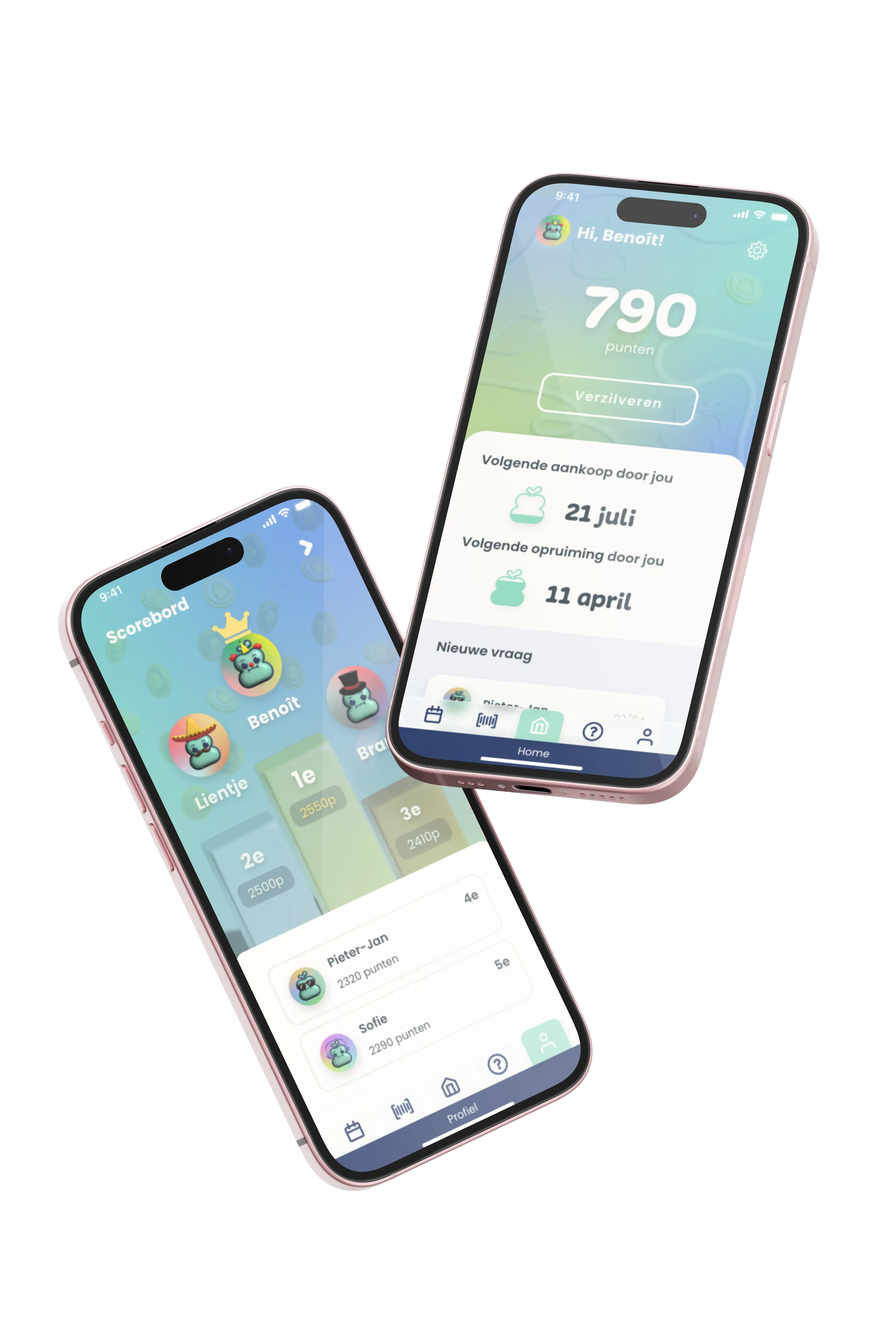
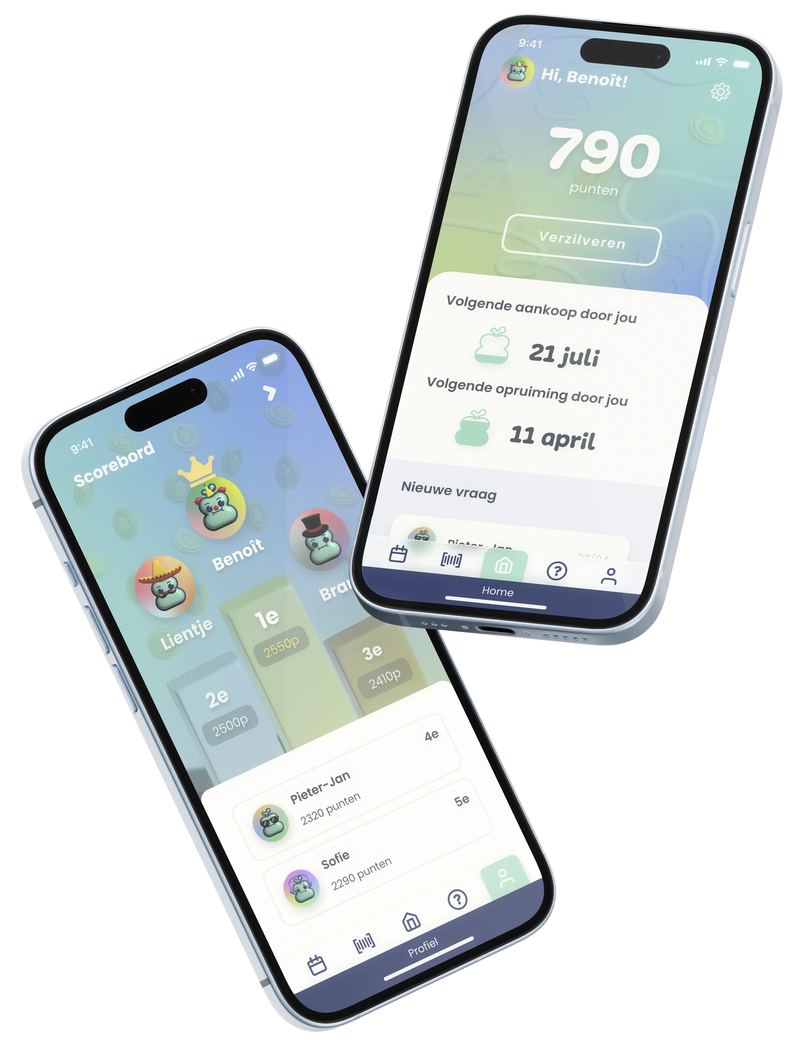
🍱 Updated homepage assets

Changed region(s): [[0.0, 0.0, 0.992, 0.9928]]

diff --git a/input/assets/styles/dist/main.css b/input/assets/styles/dist/main.css
@@ -1,1 +1,1 @@
-:root{--dark:#2b3640;--light:#c9eef2;--primary:#3fdaee;--primary85:rgba(63,218,238,.85);--white:#fffdfa}@font-face{font-family:Poppins;font-style:normal;font-weight:600;src:url(../../fonts/Poppins/Poppins-SemiBold.woff2) format("woff2"),url(../../fonts/Poppins/Poppins-SemiBold.woff) format("woff")}@font-face{font-family:Poppins;font-style:normal;font-weight:400;src:url(../../fonts/Poppins/Poppins-Regular.woff2) format("woff2"),url(../../fonts/Poppins/Poppins-Regular.woff) format("woff")}@font-face{font-display:swap;font-family:Roboto Mono;font-style:normal;font-weight:400;src:url(../../fonts/RobotoMono/RobotoMono-Regular.woff2) format("woff2"),url(../../fonts/RobotoMono/RobotoMono-Regular.woff) format("woff")}@font-face{font-display:swap;font-family:Kugile;font-style:normal;font-weight:400;src:url(../../fonts/Kugile/Kugile.woff2) format("woff2"),url(../../fonts/Kugile/Kugile.woff) format("woff")}body{background-color:var(--white);color:var(--dark);font-family:Poppins,sans-serif;position:relative}body ::selection{background-color:var(--primary85);color:var(--dark)}.dark{background-color:var(--dark)}.dark,.dark .link-hover__label,.dark a{color:var(--white)}.dark-background{background-color:var(--dark)}h1{font-size:4.25rem;font-weight:400;line-height:1.2}h1.dev__title{font-family:Roboto Mono,monospace;width:50%}@media (max-width:80rem){h1.dev__title{width:100%}}@media (max-height:56rem){h1.dev__title{font-size:2rem}}h1.designer__title{font-family:Kugile,sans-serif;font-size:5.75rem;margin-left:auto;position:relative;top:2rem;width:50%}@media (max-width:80rem){h1.designer__title{width:100%}}@media (max-width:62rem){h1.designer__title{font-size:3.4rem}}@media (max-height:56rem){h1.designer__title{font-size:2.4rem}}@media (max-width:62rem){h1{font-size:2.75rem}}h2{font-size:1.4rem;font-weight:600}p{font-size:1rem}ul{list-style-type:none;padding-left:0}a{color:var(--dark);text-decoration:none}a:hover{color:var(--primary);transition:.2s ease-in-out}.link-hover{align-items:center;display:flex;gap:1.875rem;overflow:hidden;position:relative}.link-hover .link-hover__label{position:relative;right:100%;transition:.5s ease-in-out;width:100%}@media (max-width:48rem){.link-hover .link-hover__label{display:none}}.link-hover .link-hover__svg{max-width:1rem;transition:.5s ease-in-out;width:100%;z-index:1}@media (max-width:48rem){.link-hover .link-hover__svg{max-width:3.75rem}}.link-hover .down{transform:rotate(90deg)}.link-hover:hover{color:var(--dark)}.link-hover:hover .link-hover__label{right:0;transition:.5s ease-in-out}.live-link,.recording-link,.repo-link{align-items:center;display:flex;gap:.9375rem;position:relative}.live-link .live-link__svg,.live-link .recording-link__svg,.live-link .repo-link__svg,.recording-link .live-link__svg,.recording-link .recording-link__svg,.recording-link .repo-link__svg,.repo-link .live-link__svg,.repo-link .recording-link__svg,.repo-link .repo-link__svg{max-width:1rem;position:relative;width:100%}.live-link .recording-link__svg,.recording-link .recording-link__svg,.repo-link .recording-link__svg{max-width:1.4rem}.live-link:hover .live-link__svg,.live-link:hover .recording-link__svg,.live-link:hover .repo-link__svg,.recording-link:hover .live-link__svg,.recording-link:hover .recording-link__svg,.recording-link:hover .repo-link__svg,.repo-link:hover .live-link__svg,.repo-link:hover .recording-link__svg,.repo-link:hover .repo-link__svg{bottom:2px;left:2px}.live-link .live-link__svg,.recording-link .live-link__svg,.repo-link .live-link__svg{transform:rotate(-45deg)}header{padding-bottom:3.75rem}@media (max-width:48rem){header{padding-bottom:1.875rem}}footer{padding-top:3.75rem}@media (max-width:48rem){footer{padding-top:1.875rem}}nav{align-items:center;display:flex;justify-content:space-between;padding:2.8125rem 3.75rem}@media (max-width:48rem){nav{padding:1.75rem 1.875rem}}.main__inner{margin:0 auto;max-width:75rem;padding:0 3.75rem}@media (max-width:48rem){.main__inner{padding:0 1.875rem}}.loader__container{align-items:center;background-color:var(--white);display:flex;height:100%;justify-content:center;left:0;position:fixed;top:0;width:100%;z-index:9999}.loader__container .loader{height:100%;padding:0 1.875rem}.loader__container .loader .loader__animation{max-width:16rem;width:100%}@media (max-width:48rem){.loader__container .loader .loader__animation{max-width:8rem}}.loader__container .loader .loader__message{font-size:1.4rem;left:50%;padding:0 3.75rem;position:absolute;text-align:center;top:80%;transform:translate(-50%,-50%);width:100%}@media (max-width:48rem){.loader__container .loader .loader__message{font-size:1rem;top:70%}}.dark .loader__container{background-color:var(--dark)}.hero{display:flex;flex-direction:column;height:100vh;justify-content:space-between;left:0;overflow:hidden;position:absolute;top:0;width:100%}.hero--dev{position:relative}.hero--dev,.hero--dev a{color:var(--white)}.hero--dev a:hover{color:var(--primary)}.hero--dev .button--dev:hover{color:var(--white)}.hero--dev:after{content:"&";font-size:9rem;line-height:.8;position:absolute;right:50%;top:50%;transform:translate(50%,-50%)}@media (max-height:48rem){.hero--dev:after{font-size:6rem}}.hero--dev:before{background-color:var(--dark);content:"";height:100%;position:absolute;width:100%;z-index:-2}.hero--designer{background-color:var(--white);clip-path:polygon(56% 0,100% 0,100% 100%,43% 100%)}.hero--designer .hero__content{text-align:right}@media (max-width:80rem){.hero--designer{clip-path:polygon(100% 30%,100% 100%,0 100%,0 70%)}}@media (max-width:48rem){.hero--designer{clip-path:polygon(100% 42%,100% 100%,0 100%,0 58%)}}.hero--designer:after{background-image:url(../../images/&-Amandine-font.svg);background-repeat:no-repeat;background-size:contain;content:"";height:6.75rem;position:absolute;right:49.6%;top:50%;transform:translate(50%,-50%);width:6.75rem}@media (max-width:80rem){.hero--designer:after{top:49%}}@media (max-height:48rem){.hero--designer:after{height:4.5rem;width:4.5rem}}.hero__content{margin:0 auto;padding:0 7.5rem;transition:.3s ease-in-out}@media (max-width:80rem){.hero__content{padding:0 3.75rem}}@media (max-width:48rem){.hero__content{padding:0 1.875rem}}.hero__button{border:2px solid var(--primary);display:inline-block;max-width:16rem;padding:1.25rem 2.5rem;text-align:center;width:100%}@media (max-width:48rem){.hero__button{max-width:14rem;padding:1rem 2rem}}.hero__button--dev{background-color:var(--dark);margin-top:3.75rem;transition:.4s ease-in-out}.hero__button--dev:hover{box-shadow:0 0 25px 5px rgba(0,225,255,.14);transition:.4s ease-in-out}@media (max-width:48rem){.hero__button--dev{margin-top:1.875rem}}.hero__button--designer{border-color:var(--dark);border-radius:50px;margin-bottom:1.75rem;transition:.4s ease-in-out}.hero__button--designer:hover{border-color:var(--primary);color:var(--dark);transition:.4s ease-in-out}@media (max-width:48rem){.hero__button--designer{margin-bottom:0}}.ball-animation{height:100vh;left:50%;position:absolute;top:0;width:50%;z-index:-2}@media (max-width:80rem){.ball-animation{left:25%;top:35%;width:60%}}@media (max-width:48rem){.ball-animation{left:0}}.ball-animation .ball{position:absolute}.ball-animation .ball-1{animation:float 6s ease-in-out infinite;left:22%;min-width:20rem;opacity:.4;top:10%;width:75%}.ball-animation .ball-2{animation:floatReverse 4s ease-in-out infinite;left:5%;min-width:15rem;opacity:1;top:40%;width:55%}@keyframes float{0%{transform:translateY(-1rem)}50%{transform:translateY(8rem)}to{transform:translateY(-1rem)}}@keyframes floatReverse{0%{transform:translateY(0)}50%{transform:translateY(-6rem)}to{transform:translateY(0)}}.code-animation{left:0;opacity:.1;position:absolute;top:0;width:42%;z-index:-2}@media (max-width:80rem){.code-animation{left:60%;top:-35%}}.code-animation .code{animation:float2 6s ease-in-out infinite;left:-6rem;position:absolute;top:44vh}@keyframes float2{0%{transform:translateY(0)}50%{transform:translateY(2rem)}to{transform:translateY(0)}}.hero__image{position:absolute;z-index:-1}@media (max-width:80rem){.hero__image{display:none}}@media (max-height:56rem){.hero__image{display:none}}.wd-image{bottom:-15%;max-width:95%;right:-28%;width:100%}.gd-image{left:0;max-width:45%;top:-10%;width:100%}.page-header{display:flex;justify-content:space-between;margin-bottom:7.5rem}@media (max-width:48rem){.page-header{flex-direction:column;gap:1.875rem;margin-bottom:3.75rem}}.page-header .page-header__title{left:3.75rem;max-width:45%;position:relative}@media (max-width:62rem){.page-header .page-header__title{left:1.875rem}}@media (max-width:48rem){.page-header .page-header__title{left:0;max-width:18.75rem}}.page-header .page-header__title:before{background-color:var(--primary);content:"";display:block;height:100%;left:-3.75rem;position:absolute;top:0;width:2px}@media (max-width:62rem){.page-header .page-header__title:before{left:-1.875rem}}@media (max-width:48rem){.page-header .page-header__title:before{display:none}}.page-header .page-header__right{align-items:flex-end;display:flex;flex-direction:column;justify-content:space-between}@media (max-width:48rem){.page-header .page-header__right{flex-direction:row-reverse}}.page-header .page-header__right .page-header__icon{max-height:3.75rem}.gallery{display:flex;flex-direction:column;gap:2.8125rem}.gallery .project{opacity:0;transform:translateY(2rem);transition:opacity 1s,transform 1s}.gallery .project.visible{opacity:1;transform:translateY(0)}.gallery img,.gallery video{border-radius:1.875rem;height:100%;object-fit:cover;width:100%}.gallery video{pointer-events:none}.gallery .project__media{position:relative;width:100%}.gallery .unmute-button{background:none;border:none;cursor:pointer;left:1.875rem;position:absolute;top:1.875rem;z-index:1}.gallery .unmute-button svg{height:1.875rem;width:1.875rem;fill:var(--primary)}@media (max-width:62rem){.gallery{gap:1.875rem}}.gallery .project--1,.gallery .project--2,.gallery .project--3,.gallery .project--4,.gallery .project--5,.gallery .project--6{display:flex;flex-wrap:wrap;gap:2.8125rem}.gallery .project--1 .project__media--1,.gallery .project--2 .project__media--1,.gallery .project--3 .project__media--1,.gallery .project--4 .project__media--1,.gallery .project--5 .project__media--1,.gallery .project--6 .project__media--1{width:100%}.gallery .project--1 .project__media--2,.gallery .project--1 .project__media--3,.gallery .project--1 .project__media--4,.gallery .project--2 .project__media--2,.gallery .project--2 .project__media--3,.gallery .project--2 .project__media--4,.gallery .project--3 .project__media--2,.gallery .project--3 .project__media--3,.gallery .project--3 .project__media--4,.gallery .project--4 .project__media--2,.gallery .project--4 .project__media--3,.gallery .project--4 .project__media--4,.gallery .project--5 .project__media--2,.gallery .project--5 .project__media--3,.gallery .project--5 .project__media--4,.gallery .project--6 .project__media--2,.gallery .project--6 .project__media--3,.gallery .project--6 .project__media--4{flex:1}.gallery .project--1 .project__right,.gallery .project--2 .project__right,.gallery .project--3 .project__right,.gallery .project--4 .project__right,.gallery .project--5 .project__right,.gallery .project--6 .project__right{display:flex;flex:1;flex-direction:column;gap:2.8125rem}@media (max-width:62rem){.gallery .project--1,.gallery .project--1 .project__right,.gallery .project--2,.gallery .project--2 .project__right,.gallery .project--3,.gallery .project--3 .project__right,.gallery .project--4,.gallery .project--4 .project__right,.gallery .project--5,.gallery .project--5 .project__right,.gallery .project--6,.gallery .project--6 .project__right{gap:1.875rem}}@media (max-width:48rem){.gallery .project--1,.gallery .project--2,.gallery .project--3,.gallery .project--4,.gallery .project--5,.gallery .project--6{flex-direction:column}}.gallery .project--1 .project__media--1{width:65%}.gallery .project--1 .project__media--3{flex:none;width:47%}.gallery .project--3 .project__media--1{width:47%}.gallery .project--4 .project__media--1{width:30%}.gallery .project--5 .project__media--1{width:65%}.gallery .project--6 .project__media--1{width:47%}@media (max-width:48rem){.gallery .project .project__media{width:100%}}.summary{border-top:2px solid var(--primary);margin-top:7.5rem;padding-bottom:3.75rem;padding-top:7.5rem}.summary .summary__title{font-weight:600;padding-bottom:1.875rem}.summary .summary__content{display:flex;flex-wrap:wrap;gap:.9375rem}.web-projects{display:flex;flex-direction:column;gap:3.75rem;transition:.2s ease-in-out}.web-projects .faded{opacity:.5;transition:.4s ease-in-out}.web-projects .web-project{display:flex;flex-wrap:wrap;gap:1.875rem}.web-projects .web-project .web-project__thumbnail{width:30%}@media (max-width:62rem){.web-projects .web-project .web-project__thumbnail{width:40%}}@media (max-width:48rem){.web-projects .web-project .web-project__thumbnail{width:100%}}.web-projects .web-project .web-project__content{display:flex;flex:1;flex-direction:column;gap:.9375rem}.web-projects .web-project .web-project__header,.web-projects .web-project .web-project__links{align-items:center;display:flex;flex-wrap:wrap;gap:.9375rem;justify-content:space-between}.web-projects .web-project .web_project__tags{color:var(--primary);display:flex;flex-wrap:wrap;gap:1.25rem}.about .about__header{align-items:center;display:flex;justify-content:space-between;padding-bottom:1.875rem}.about .about__tagline{display:flex;flex-direction:column;width:100%}.about .about__tagline p{align-items:center;display:flex;font-size:clamp(1rem,5vw,4.2rem);font-weight:400;gap:.9375rem;line-height:1.4}.about .about__icon{max-height:3.75rem}@media (max-width:80rem){.about .about__icon{max-height:2.7rem}}@media (max-width:48rem){.about .about__icon{max-height:1.2rem}}.about .about__icon::selection{background-color:transparent}.socials{align-items:flex-end;display:flex;flex-direction:column;gap:.9375rem;margin-top:3.75rem}.skills__wrapper{display:flex;flex-wrap:wrap;gap:7.5rem}@media (max-width:62rem){.skills__wrapper{gap:3.75rem}}@media (max-width:48rem){.skills__wrapper{gap:1.875rem}}.skills{margin-top:3.75rem}.skills .skills__title{font-weight:600;padding-bottom:1.875rem}.skills .skills__content{display:flex;flex-direction:column;flex-wrap:wrap;gap:.9375rem}
+:root{--dark:#2b3640;--light:#c9eef2;--primary:#3fdaee;--primary85:rgba(63,218,238,.85);--white:#fffdfa}@font-face{font-family:Poppins;font-style:normal;font-weight:600;src:url(../../fonts/Poppins/Poppins-SemiBold.woff2) format("woff2"),url(../../fonts/Poppins/Poppins-SemiBold.woff) format("woff")}@font-face{font-family:Poppins;font-style:normal;font-weight:400;src:url(../../fonts/Poppins/Poppins-Regular.woff2) format("woff2"),url(../../fonts/Poppins/Poppins-Regular.woff) format("woff")}@font-face{font-display:swap;font-family:Roboto Mono;font-style:normal;font-weight:400;src:url(../../fonts/RobotoMono/RobotoMono-Regular.woff2) format("woff2"),url(../../fonts/RobotoMono/RobotoMono-Regular.woff) format("woff")}@font-face{font-display:swap;font-family:Kugile;font-style:normal;font-weight:400;src:url(../../fonts/Kugile/Kugile.woff2) format("woff2"),url(../../fonts/Kugile/Kugile.woff) format("woff")}body{background-color:var(--white);color:var(--dark);font-family:Poppins,sans-serif;position:relative}body ::selection{background-color:var(--primary85);color:var(--dark)}.dark{background-color:var(--dark)}.dark,.dark .link-hover__label,.dark a{color:var(--white)}.dark-background{background-color:var(--dark)}h1{font-size:4.25rem;font-weight:400;line-height:1.2}h1.dev__title{font-family:Roboto Mono,monospace;width:50%}@media (max-width:80rem){h1.dev__title{width:100%}}@media (max-height:56rem){h1.dev__title{font-size:2rem}}h1.designer__title{font-family:Kugile,sans-serif;font-size:5.75rem;margin-left:auto;position:relative;top:2rem;width:50%}@media (max-width:80rem){h1.designer__title{width:100%}}@media (max-width:62rem){h1.designer__title{font-size:3.4rem}}@media (max-height:56rem){h1.designer__title{font-size:2.4rem}}@media (max-width:62rem){h1{font-size:2.75rem}}h2{font-size:1.4rem;font-weight:600}p{font-size:1rem}ul{list-style-type:none;padding-left:0}a{color:var(--dark);text-decoration:none}a:hover{color:var(--primary);transition:.2s ease-in-out}.link-hover{align-items:center;display:flex;gap:1.875rem;overflow:hidden;position:relative}.link-hover .link-hover__label{position:relative;right:100%;transition:.5s ease-in-out;width:100%}@media (max-width:48rem){.link-hover .link-hover__label{display:none}}.link-hover .link-hover__svg{max-width:1rem;transition:.5s ease-in-out;width:100%;z-index:1}@media (max-width:48rem){.link-hover .link-hover__svg{max-width:3.75rem}}.link-hover .down{transform:rotate(90deg)}.link-hover:hover{color:var(--dark)}.link-hover:hover .link-hover__label{right:0;transition:.5s ease-in-out}.live-link,.recording-link,.repo-link{align-items:center;display:flex;gap:.9375rem;position:relative}.live-link .live-link__svg,.live-link .recording-link__svg,.live-link .repo-link__svg,.recording-link .live-link__svg,.recording-link .recording-link__svg,.recording-link .repo-link__svg,.repo-link .live-link__svg,.repo-link .recording-link__svg,.repo-link .repo-link__svg{max-width:1rem;position:relative;width:100%}.live-link .recording-link__svg,.recording-link .recording-link__svg,.repo-link .recording-link__svg{max-width:1.4rem}.live-link:hover .live-link__svg,.live-link:hover .recording-link__svg,.live-link:hover .repo-link__svg,.recording-link:hover .live-link__svg,.recording-link:hover .recording-link__svg,.recording-link:hover .repo-link__svg,.repo-link:hover .live-link__svg,.repo-link:hover .recording-link__svg,.repo-link:hover .repo-link__svg{bottom:2px;left:2px}.live-link .live-link__svg,.recording-link .live-link__svg,.repo-link .live-link__svg{transform:rotate(-45deg)}header{padding-bottom:3.75rem}@media (max-width:48rem){header{padding-bottom:1.875rem}}footer{padding-top:3.75rem}@media (max-width:48rem){footer{padding-top:1.875rem}}nav{align-items:center;display:flex;justify-content:space-between;padding:2.8125rem 3.75rem}@media (max-width:48rem){nav{padding:1.75rem 1.875rem}}.main__inner{margin:0 auto;max-width:75rem;padding:0 3.75rem}@media (max-width:48rem){.main__inner{padding:0 1.875rem}}.loader__container{align-items:center;background-color:var(--white);display:flex;height:100%;justify-content:center;left:0;position:fixed;top:0;width:100%;z-index:9999}.loader__container .loader{height:100%;padding:0 1.875rem}.loader__container .loader .loader__animation{max-width:16rem;width:100%}@media (max-width:48rem){.loader__container .loader .loader__animation{max-width:8rem}}.loader__container .loader .loader__message{font-size:1.4rem;left:50%;padding:0 3.75rem;position:absolute;text-align:center;top:80%;transform:translate(-50%,-50%);width:100%}@media (max-width:48rem){.loader__container .loader .loader__message{font-size:1rem;top:70%}}.dark .loader__container{background-color:var(--dark)}.hero{display:flex;flex-direction:column;height:100vh;justify-content:space-between;left:0;overflow:hidden;position:absolute;top:0;width:100%}.hero--dev{position:relative}.hero--dev,.hero--dev a{color:var(--white)}.hero--dev a:hover{color:var(--primary)}.hero--dev .button--dev:hover{color:var(--white)}.hero--dev:after{content:"&";font-size:9rem;line-height:.8;position:absolute;right:50%;top:50%;transform:translate(50%,-50%)}@media (max-height:48rem){.hero--dev:after{font-size:6rem}}.hero--dev:before{background-color:var(--dark);content:"";height:100%;position:absolute;width:100%;z-index:-2}.hero--designer{background-color:var(--white);clip-path:polygon(56% 0,100% 0,100% 100%,43% 100%)}.hero--designer .hero__content{text-align:right}@media (max-width:80rem){.hero--designer{clip-path:polygon(100% 30%,100% 100%,0 100%,0 70%)}}@media (max-width:48rem){.hero--designer{clip-path:polygon(100% 42%,100% 100%,0 100%,0 58%)}}.hero--designer:after{background-image:url(../../images/&-Amandine-font.svg);background-repeat:no-repeat;background-size:contain;content:"";height:6.75rem;position:absolute;right:49.6%;top:50%;transform:translate(50%,-50%);width:6.75rem}@media (max-width:80rem){.hero--designer:after{top:49%}}@media (max-height:48rem){.hero--designer:after{height:4.5rem;width:4.5rem}}.hero__content{margin:0 auto;padding:0 7.5rem;transition:.3s ease-in-out}@media (max-width:80rem){.hero__content{padding:0 3.75rem}}@media (max-width:48rem){.hero__content{padding:0 1.875rem}}.hero__button{border:2px solid var(--primary);display:inline-block;max-width:16rem;padding:1.25rem 2.5rem;text-align:center;width:100%}@media (max-width:48rem){.hero__button{max-width:14rem;padding:1rem 2rem}}.hero__button--dev{background-color:var(--dark);margin-top:3.75rem;transition:.4s ease-in-out}.hero__button--dev:hover{box-shadow:0 0 25px 5px rgba(0,225,255,.14);transition:.4s ease-in-out}@media (max-width:48rem){.hero__button--dev{margin-top:1.875rem}}.hero__button--designer{border-color:var(--dark);border-radius:50px;margin-bottom:1.75rem;transition:.4s ease-in-out}.hero__button--designer:hover{border-color:var(--primary);color:var(--dark);transition:.4s ease-in-out}@media (max-width:48rem){.hero__button--designer{margin-bottom:0}}.ball-animation{height:100vh;left:50%;position:absolute;top:0;width:50%;z-index:-2}@media (max-width:80rem){.ball-animation{left:25%;top:35%;width:60%}}@media (max-width:48rem){.ball-animation{left:0}}.ball-animation .ball{position:absolute}.ball-animation .ball-1{animation:float 6s ease-in-out infinite;left:22%;min-width:20rem;opacity:.4;top:10%;width:75%}.ball-animation .ball-2{animation:floatReverse 4s ease-in-out infinite;left:5%;min-width:15rem;opacity:1;top:40%;width:55%}@keyframes float{0%{transform:translateY(-1rem)}50%{transform:translateY(8rem)}to{transform:translateY(-1rem)}}@keyframes floatReverse{0%{transform:translateY(0)}50%{transform:translateY(-6rem)}to{transform:translateY(0)}}.code-animation{left:0;opacity:.1;position:absolute;top:0;width:42%;z-index:-2}@media (max-width:80rem){.code-animation{left:60%;top:-35%}}.code-animation .code{animation:float2 6s ease-in-out infinite;left:-6rem;position:absolute;top:44vh}@keyframes float2{0%{transform:translateY(0)}50%{transform:translateY(2rem)}to{transform:translateY(0)}}.hero__image{position:absolute;z-index:-1}@media (max-width:80rem){.hero__image{display:none}}@media (max-height:56rem){.hero__image{display:none}}.wd-image{bottom:2vh;max-width:55vw;right:-6vw;width:100%}.gd-image{left:5vw;max-width:38vw;top:8vh;width:100%}.page-header{display:flex;justify-content:space-between;margin-bottom:7.5rem}@media (max-width:48rem){.page-header{flex-direction:column;gap:1.875rem;margin-bottom:3.75rem}}.page-header .page-header__title{left:3.75rem;max-width:45%;position:relative}@media (max-width:62rem){.page-header .page-header__title{left:1.875rem}}@media (max-width:48rem){.page-header .page-header__title{left:0;max-width:18.75rem}}.page-header .page-header__title:before{background-color:var(--primary);content:"";display:block;height:100%;left:-3.75rem;position:absolute;top:0;width:2px}@media (max-width:62rem){.page-header .page-header__title:before{left:-1.875rem}}@media (max-width:48rem){.page-header .page-header__title:before{display:none}}.page-header .page-header__right{align-items:flex-end;display:flex;flex-direction:column;justify-content:space-between}@media (max-width:48rem){.page-header .page-header__right{flex-direction:row-reverse}}.page-header .page-header__right .page-header__icon{max-height:3.75rem}.gallery{display:flex;flex-direction:column;gap:2.8125rem}.gallery .project{opacity:0;transform:translateY(2rem);transition:opacity 1s,transform 1s}.gallery .project.visible{opacity:1;transform:translateY(0)}.gallery img,.gallery video{border-radius:1.875rem;height:100%;object-fit:cover;width:100%}.gallery video{pointer-events:none}.gallery .project__media{position:relative;width:100%}.gallery .unmute-button{background:none;border:none;cursor:pointer;left:1.875rem;position:absolute;top:1.875rem;z-index:1}.gallery .unmute-button svg{height:1.875rem;width:1.875rem;fill:var(--primary)}@media (max-width:62rem){.gallery{gap:1.875rem}}.gallery .project--1,.gallery .project--2,.gallery .project--3,.gallery .project--4,.gallery .project--5,.gallery .project--6{display:flex;flex-wrap:wrap;gap:2.8125rem}.gallery .project--1 .project__media--1,.gallery .project--2 .project__media--1,.gallery .project--3 .project__media--1,.gallery .project--4 .project__media--1,.gallery .project--5 .project__media--1,.gallery .project--6 .project__media--1{width:100%}.gallery .project--1 .project__media--2,.gallery .project--1 .project__media--3,.gallery .project--1 .project__media--4,.gallery .project--2 .project__media--2,.gallery .project--2 .project__media--3,.gallery .project--2 .project__media--4,.gallery .project--3 .project__media--2,.gallery .project--3 .project__media--3,.gallery .project--3 .project__media--4,.gallery .project--4 .project__media--2,.gallery .project--4 .project__media--3,.gallery .project--4 .project__media--4,.gallery .project--5 .project__media--2,.gallery .project--5 .project__media--3,.gallery .project--5 .project__media--4,.gallery .project--6 .project__media--2,.gallery .project--6 .project__media--3,.gallery .project--6 .project__media--4{flex:1}.gallery .project--1 .project__right,.gallery .project--2 .project__right,.gallery .project--3 .project__right,.gallery .project--4 .project__right,.gallery .project--5 .project__right,.gallery .project--6 .project__right{display:flex;flex:1;flex-direction:column;gap:2.8125rem}@media (max-width:62rem){.gallery .project--1,.gallery .project--1 .project__right,.gallery .project--2,.gallery .project--2 .project__right,.gallery .project--3,.gallery .project--3 .project__right,.gallery .project--4,.gallery .project--4 .project__right,.gallery .project--5,.gallery .project--5 .project__right,.gallery .project--6,.gallery .project--6 .project__right{gap:1.875rem}}@media (max-width:48rem){.gallery .project--1,.gallery .project--2,.gallery .project--3,.gallery .project--4,.gallery .project--5,.gallery .project--6{flex-direction:column}}.gallery .project--1 .project__media--1{width:65%}.gallery .project--1 .project__media--3{flex:none;width:47%}.gallery .project--3 .project__media--1{width:47%}.gallery .project--4 .project__media--1{width:30%}.gallery .project--5 .project__media--1{width:65%}.gallery .project--6 .project__media--1{width:47%}@media (max-width:48rem){.gallery .project .project__media{width:100%}}.summary{border-top:2px solid var(--primary);margin-top:7.5rem;padding-bottom:3.75rem;padding-top:7.5rem}.summary .summary__title{font-weight:600;padding-bottom:1.875rem}.summary .summary__content{display:flex;flex-wrap:wrap;gap:.9375rem}.web-projects{display:flex;flex-direction:column;gap:3.75rem;transition:.2s ease-in-out}.web-projects .faded{opacity:.5;transition:.4s ease-in-out}.web-projects .web-project{display:flex;flex-wrap:wrap;gap:1.875rem}.web-projects .web-project .web-project__thumbnail{width:30%}@media (max-width:62rem){.web-projects .web-project .web-project__thumbnail{width:40%}}@media (max-width:48rem){.web-projects .web-project .web-project__thumbnail{width:100%}}.web-projects .web-project .web-project__content{display:flex;flex:1;flex-direction:column;gap:.9375rem}.web-projects .web-project .web-project__header,.web-projects .web-project .web-project__links{align-items:center;display:flex;flex-wrap:wrap;gap:.9375rem;justify-content:space-between}.web-projects .web-project .web_project__tags{color:var(--primary);display:flex;flex-wrap:wrap;gap:1.25rem}.about .about__header{align-items:center;display:flex;justify-content:space-between;padding-bottom:1.875rem}.about .about__tagline{display:flex;flex-direction:column;width:100%}.about .about__tagline p{align-items:center;display:flex;font-size:clamp(1rem,5vw,4.2rem);font-weight:400;gap:.9375rem;line-height:1.4}.about .about__icon{max-height:3.75rem}@media (max-width:80rem){.about .about__icon{max-height:2.7rem}}@media (max-width:48rem){.about .about__icon{max-height:1.2rem}}.about .about__icon::selection{background-color:transparent}.socials{align-items:flex-end;display:flex;flex-direction:column;gap:.9375rem;margin-top:3.75rem}.skills__wrapper{display:flex;flex-wrap:wrap;gap:7.5rem}@media (max-width:62rem){.skills__wrapper{gap:3.75rem}}@media (max-width:48rem){.skills__wrapper{gap:1.875rem}}.skills{margin-top:3.75rem}.skills .skills__title{font-weight:600;padding-bottom:1.875rem}.skills .skills__content{display:flex;flex-direction:column;flex-wrap:wrap;gap:.9375rem}

diff --git a/input/assets/styles/main.css b/input/assets/styles/main.css
@@ -516,6 +516,7 @@ HOMEPAGE
     }
 }
 
+/* Hero image */
 .hero__image {
     position: absolute;
     z-index: -1;
@@ -528,17 +529,17 @@ HOMEPAGE
 }
 
 .wd-image {
-    max-width: 95%;
+    max-width: 55vw;
     width: 100%;
-    bottom: -15%;
-    right: -28%;
+    bottom: 2vh;
+    right: -6vw;
 }
 
 .gd-image {
-    max-width: 45%;
+    max-width: 38vw;
     width: 100%;
-    top: -10%;
-    left: 0;
+    top: 8vh;
+    left: 5vw;
 }
 
 /*
